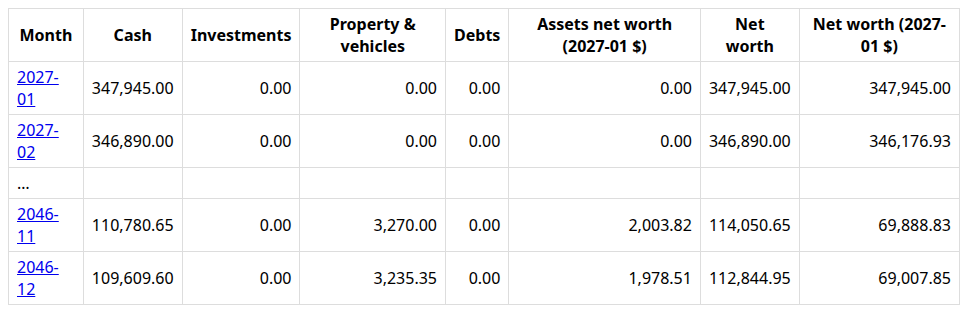
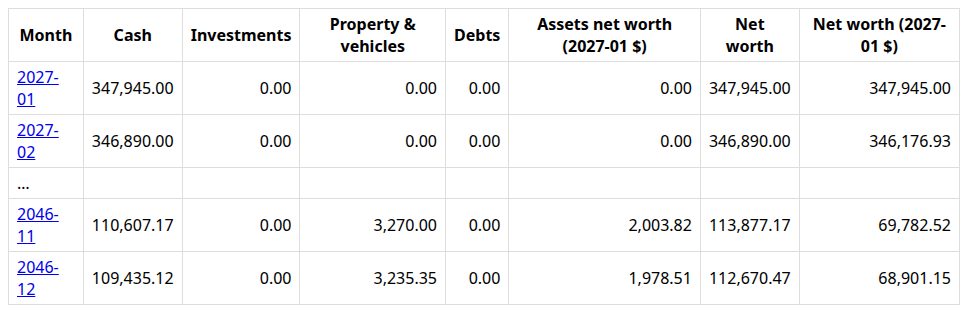
Lease tutorial: option C's running costs in today's dollars (amountIn)
The bought-out vehicle's insurance, fuel and maintenance are now entered as today's
amounts with amountIn "today's dollars" instead of hand-inflated 2031 amounts. Option C
changes slightly (net worth 112,670.47, 988.87 a month; buying stays about 4,300 cheaper);
text, comparison table, example file and the option C run screenshot updated.

diff --git a/webapp/static/docs/pages/docs-user-vehicle-lease-or-own.html b/webapp/static/docs/pages/docs-user-vehicle-lease-or-own.html
@@ -92,21 +92,21 @@
 <p>Option B: <strong>$26,148.92</strong> at the end, or $15,990.80 in today's dollars. Nothing is left to sell at the end of a lease.</p>
 <h2 id="5-option-c-lease-once-then-buy-it-out">5. Option C: lease once, then buy it out</h2>
 <p>At the end of a lease you can usually buy the vehicle for its <em>residual value</em>, set in the contract (here 55% of the price: $24,750). From then on it is yours, four years old, and its maintenance follows its age.</p>
-<ol><li><strong>The lease.</strong> An expense <code>C. SUV lease, then buy out (48 months)</code> from <code>2027-01-01</code> to <code>2030-12-01</code>, <code>650</code> per month, indexing none, with an <strong>acquisition fee</strong> of <code>1000</code> at its start (no disposition fee: you keep the vehicle), and insurance <code>2100</code> a year and fuel <code>230</code> a month as associated expenses.</li><li><strong>The buy-out.</strong> A vehicle <code>C. SUV, bought out at the lease&#x27;s end</code>, bought <code>2031-01-01</code> for <code>24750</code>, losing <code>12</code> % of its value a year.</li><li><strong>Its running costs</strong>, entered in 2031 dollars (today's amounts grown by 2.5% a year for four years): insurance <code>1990</code> a year, fuel <code>275</code> a month, both indexed to inflation, and maintenance <code>1320</code> a year with steps on the same principle as option A: <code>2380</code> from 2034-01-01 (age 7), <code>3940</code> from 2038-01-01 (age 11) and <code>5790</code> from 2042-01-01 (age 15).</li></ol>
+<ol><li><strong>The lease.</strong> An expense <code>C. SUV lease, then buy out (48 months)</code> from <code>2027-01-01</code> to <code>2030-12-01</code>, <code>650</code> per month, indexing none, with an <strong>acquisition fee</strong> of <code>1000</code> at its start (no disposition fee: you keep the vehicle), and insurance <code>2100</code> a year and fuel <code>230</code> a month as associated expenses.</li><li><strong>The buy-out.</strong> A vehicle <code>C. SUV, bought out at the lease&#x27;s end</code>, bought <code>2031-01-01</code> for <code>24750</code>, losing <code>12</code> % of its value a year.</li><li><strong>Its running costs</strong>, in today's dollars (<strong>amountIn</strong> "today's dollars": the app grows them with inflation until 2031): insurance <code>1800</code> a year, fuel <code>250</code> a month, both indexed to inflation, and maintenance <code>1200</code> a year with steps on the same principle as option A: <code>2380</code> from 2034-01-01 (age 7), <code>3940</code> from 2038-01-01 (age 11) and <code>5790</code> from 2042-01-01 (age 15).</li></ol>
 <p>Switch option B off and option C's two cards on: in the builder, only C's lease and C's vehicle have their checkmark ticked.</p>
 <p><img src="/static/docs/files/docs/user/images/vehicle-lease-or-own/12-option-c-on.png" alt="Option C on, options A and B switched off" loading="lazy"></p>
 <p>Run again.</p>
 <p><img src="/static/docs/files/docs/user/images/vehicle-lease-or-own/13-run-c.png" alt="The run with option C" loading="lazy"></p>
-<p>Option C: <strong>$112,844.95</strong> at the end, or $69,007.85 in today's dollars.</p>
+<p>Option C: <strong>$112,670.47</strong> at the end, or $68,901.15 in today's dollars.</p>
 <h2 id="6-compare-the-three-options">6. Compare the three options</h2>
 <table>
 <tr><th></th><th>A. Buy and keep</th><th>B. Lease back to back</th><th>C. Lease, then buy out</th></tr>
-<tr><td>Net worth after 20 years</td><td>$116,978.58</td><td>$26,148.92</td><td>$112,844.95</td></tr>
-<tr><td>In 2027 dollars</td><td>$71,535.68</td><td>$15,990.80</td><td>$69,007.85</td></tr>
-<tr><td>Average cost per month</td><td>$970.92</td><td>$1,349.38</td><td>$988.15</td></tr>
+<tr><td>Net worth after 20 years</td><td>$116,978.58</td><td>$26,148.92</td><td>$112,670.47</td></tr>
+<tr><td>In 2027 dollars</td><td>$71,535.68</td><td>$15,990.80</td><td>$68,901.15</td></tr>
+<tr><td>Average cost per month</td><td>$970.92</td><td>$1,349.38</td><td>$988.87</td></tr>
 </table>
 <p>The average cost per month is the money the option used: (opening cash − net worth at the end) ÷ 240 months. For option A it matches the vehicle cost-of-ownership page.</p>
-<p>With these figures, <strong>buying and keeping is the cheapest</strong>: about $90,800 less than leasing back to back over 20 years (about $55,500 in today's dollars). Leasing once and then buying out comes close to buying, about $4,100 more, because the first four years cost more as a lease than as an owner's depreciation. Back-to-back leasing costs the most, but buys you a vehicle that is never more than four years old.</p>
+<p>With these figures, <strong>buying and keeping is the cheapest</strong>: about $90,800 less than leasing back to back over 20 years (about $55,500 in today's dollars). Leasing once and then buying out comes close to buying, about $4,300 more, because the first four years cost more as a lease than as an owner's depreciation. Back-to-back leasing costs the most, but buys you a vehicle that is never more than four years old.</p>
 <p>To flip between the options at any time, switch the cards' checkmarks and run again. Try different figures to see where the answer changes: a cheaper lease, a higher residual, or maintenance that jumps earlier.</p>
 <h2 id="make-it-closer-to-your-situation">Make it closer to your situation</h2>
 <ul><li><strong>Maintenance not included in your lease.</strong> Add it to the lease as an associated expense, with an adjustment back to the low amount at each new lease (the vehicle is new again).</li><li><strong>Other lease costs.</strong> A down payment, excess-mileage charges or wear-and-tear charges are one-off associated costs at the lease's start or end, like the fees above.</li><li><strong>Replacing a bought vehicle.</strong> If you would replace it after, say, 10 years, add a <strong>sale</strong> on the vehicle's card at that date and a second vehicle bought then.</li><li><strong>Financing the purchase.</strong> This scenario pays cash. A car loan can be entered as a <strong>mortgage</strong> with no property: its principal, rate, amortization and start date. The loan's money arrives in cash, which pays the vehicle, and its payments follow.</li><li><strong>Money not spent up front.</strong> Cash earns nothing in this model. If you would invest the purchase price instead, add an <strong>account</strong> with a return and a one-off <strong>transfer</strong> into it in the leasing options.</li><li><strong>Save your work.</strong> Click <strong>Save</strong> in the menu to download the scenario as a JSON file; the browser tab forgets it once closed.</li></ul>

diff --git a/docs/user/vehicle-lease-or-own.md b/docs/user/vehicle-lease-or-own.md
@@ -187,9 +187,10 @@ its maintenance follows its age.
    fuel `230` a month as associated expenses.
 2. **The buy-out.** A vehicle `C. SUV, bought out at the lease's end`, bought `2031-01-01`
    for `24750`, losing `12` % of its value a year.
-3. **Its running costs**, entered in 2031 dollars (today's amounts grown by 2.5% a year
-   for four years): insurance `1990` a year, fuel `275` a month, both indexed to
-   inflation, and maintenance `1320` a year with steps on the same principle as option A:
+3. **Its running costs**, in today's dollars (**amountIn** "today's dollars": the app
+   grows them with inflation until 2031): insurance `1800` a year, fuel `250` a month,
+   both indexed to inflation, and maintenance `1200` a year with steps on the same
+   principle as option A:
    `2380` from 2034-01-01 (age 7), `3940` from 2038-01-01 (age 11) and `5790` from
    2042-01-01 (age 15).
 
@@ -202,21 +203,21 @@ Run again.
 
 ![The run with option C](images/vehicle-lease-or-own/13-run-c.png)
 
-Option C: **$112,844.95** at the end, or $69,007.85 in today's dollars.
+Option C: **$112,670.47** at the end, or $68,901.15 in today's dollars.
 
 ## 6. Compare the three options
 | | A. Buy and keep | B. Lease back to back | C. Lease, then buy out |
 |---|---|---|---|
-| Net worth after 20 years | $116,978.58 | $26,148.92 | $112,844.95 |
-| In 2027 dollars | $71,535.68 | $15,990.80 | $69,007.85 |
-| Average cost per month | $970.92 | $1,349.38 | $988.15 |
+| Net worth after 20 years | $116,978.58 | $26,148.92 | $112,670.47 |
+| In 2027 dollars | $71,535.68 | $15,990.80 | $68,901.15 |
+| Average cost per month | $970.92 | $1,349.38 | $988.87 |
 
 The average cost per month is the money the option used: (opening cash − net worth at the
 end) ÷ 240 months. For option A it matches the vehicle cost-of-ownership page.
 
 With these figures, **buying and keeping is the cheapest**: about $90,800 less than
 leasing back to back over 20 years (about $55,500 in today's dollars). Leasing once and
-then buying out comes close to buying, about $4,100 more, because the first four years
+then buying out comes close to buying, about $4,300 more, because the first four years
 cost more as a lease than as an owner's depreciation. Back-to-back leasing costs the most,
 but buys you a vehicle that is never more than four years old.
 
